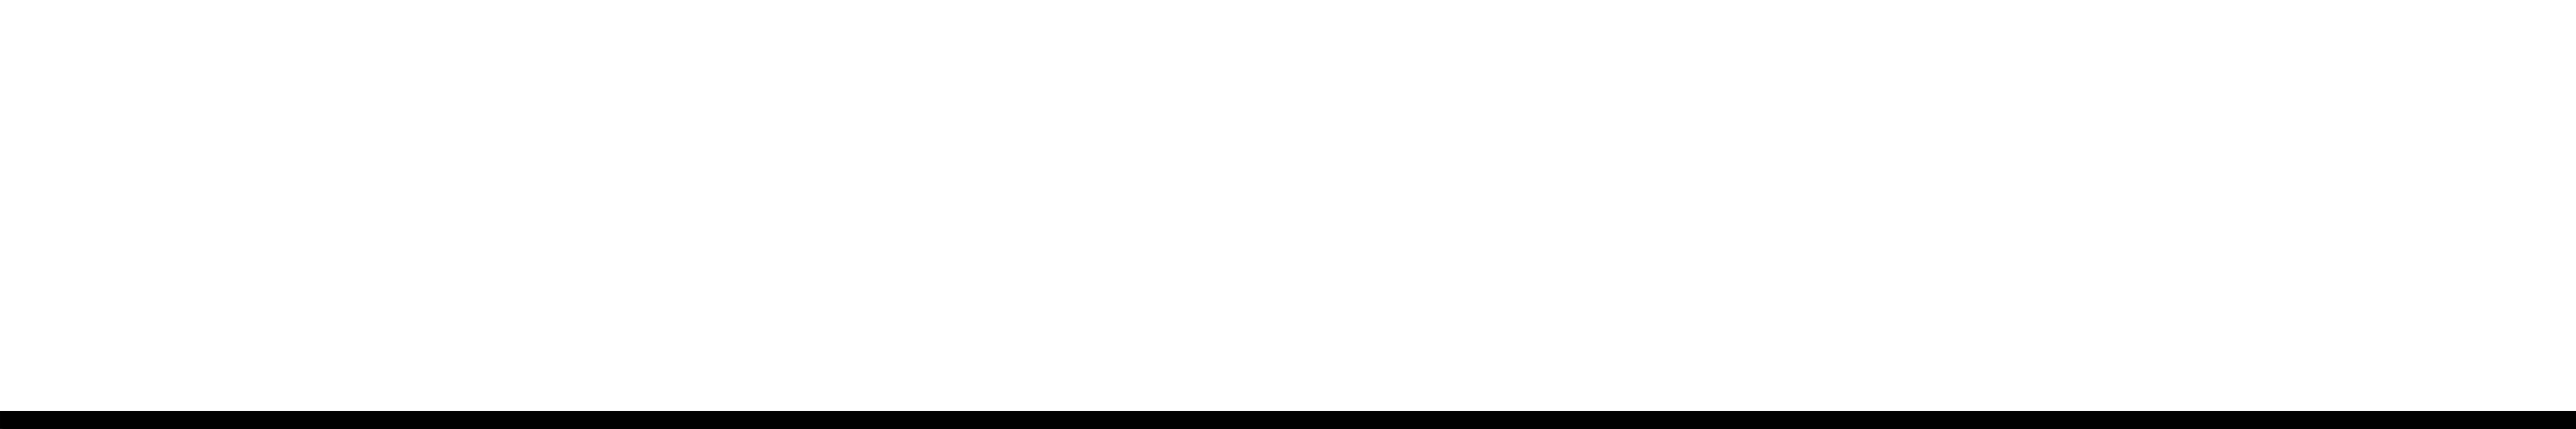
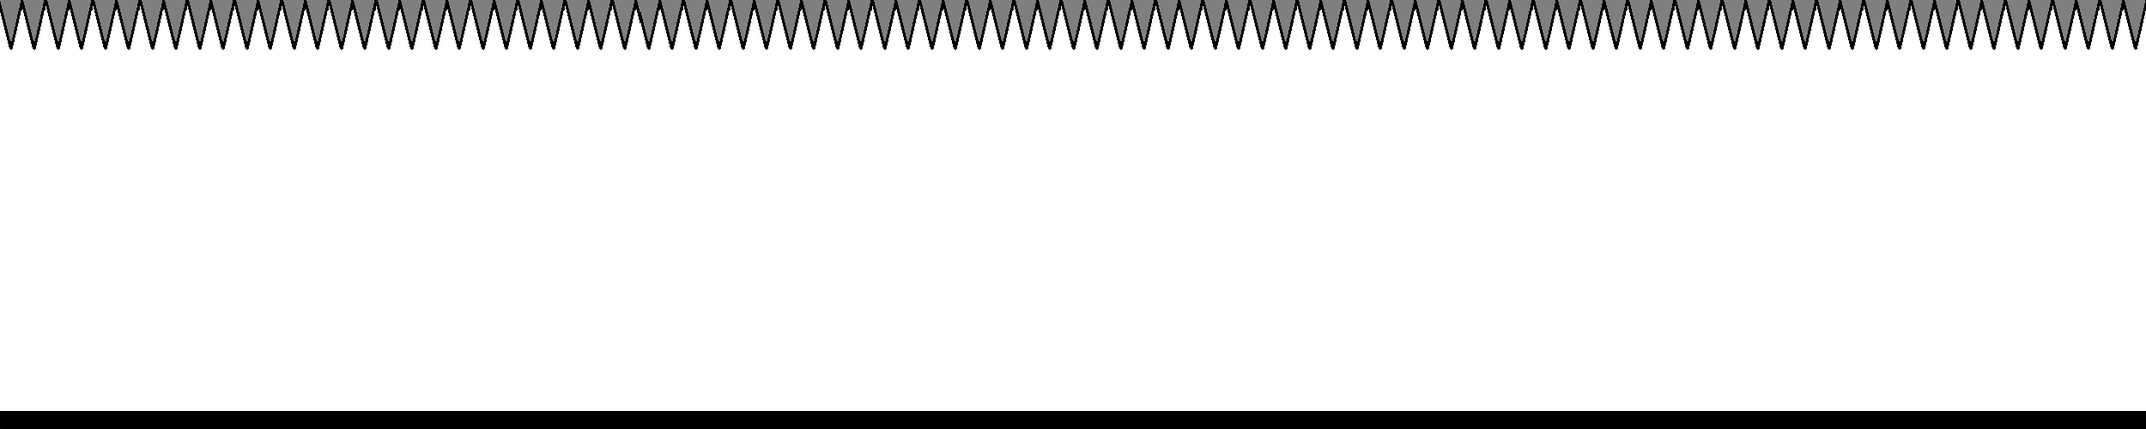
Animacao de perder vida ao cair nos espinhos.

Changed region(s): [[0.0, 0.0, 1.0, 0.12]]

diff --git a/core/src/br/cefetmg/games/Game.java b/core/src/br/cefetmg/games/Game.java
@@ -76,8 +76,9 @@ public class Game extends ApplicationAdapter {
     private int gameState;
     private long deltaTempoVitoria;
     private long tempoVitoria=0;
+    private boolean primeiraFase;
     // DEBUG
-    private boolean debug = true;
+    private boolean debug = false;
     private BitmapFont font;
     private float posicaoFontX;
 
@@ -88,6 +89,7 @@ public class Game extends ApplicationAdapter {
         animacaoMostrarObjetivo = true;
         comecoFase = true;
         gameState = 0;
+        primeiraFase = true;
         if (debug)
             fimAnimacaoInicial = true;
         else
@@ -134,7 +136,7 @@ public class Game extends ApplicationAdapter {
         Gdx.gl.glClear(GL20.GL_COLOR_BUFFER_BIT);
         
         batch.begin();
-
+        
         batch.draw(mapa, 0, 0);
         
         heroi.render(batch, debug);
@@ -236,6 +238,7 @@ public class Game extends ApplicationAdapter {
             limiteCameraDireita = (int) (camera.position.x + camera.viewportWidth / 2f);
 
             verificarDisparoArmadilha();
+            verificarColisaoEspinho();
 
             //Spawn de inimigos
             if (inimigos.size() < 1)
@@ -314,7 +317,7 @@ public class Game extends ApplicationAdapter {
 
     private void inicializarArrayArmadilhas() {
         armadilhas = new ArrayList<BaseArmadilha>();
-        armadilhas.add(new Pedra(1000, 12, true));
+        armadilhas.add(new Pedra(700, 12, true));
         //armadilhas.append(new Pedra(1000,0));
     }
 
@@ -387,7 +390,8 @@ public class Game extends ApplicationAdapter {
         for (int i = 0; i < quantidade;i++){
             batch.draw(caixa, inicio, 0, 100, 100);
             chao.addNovaCaixa(inicio);            
-            batch.draw(espinhos, inicio - 150, 21);            
+            batch.draw(espinhos, inicio - 150, 21);
+            chao.addNovoEspinho(inicio - 150);
             batch.draw(caixa, inicio - 250, 0, 100, 100);
             chao.addNovaCaixa(inicio - 250);
             inicio = inicio - 250;
@@ -407,6 +411,23 @@ public class Game extends ApplicationAdapter {
     private void perderJogo () {
         gameState = 2;
         //entre outras coisas;
+    }
+
+    private void verificarColisaoEspinho() {
+        int deslocamentoCamera = 0;
+        if ((heroi.getY() <= 40) && (Chao.getFloorHeightBelowCharacter(heroi.getHitbox().x, heroi.getHitbox().width) == 40)){
+            heroi.perdeuVida();
+            // Volta o heroi para cima da última caixa
+            while(Chao.getFloorHeightBelowCharacter(heroi.getHitbox().x, heroi.getHitbox().width) != 100){
+                heroi.setX(heroi.getX() + 1);
+                heroi.hitbox.x = heroi.hitbox.x + 1;
+                deslocamentoCamera++;
+            }
+            heroi.setX(heroi.getX() + 75);
+            heroi.setY(heroi.getY() + 100);
+            heroi.hitbox.y = heroi.hitbox.y + 60;
+            camera.position.x = camera.position.x + (deslocamentoCamera + 75);
+        }
     }
         
 }

diff --git a/core/src/br/cefetmg/games/modelo/Chao.java b/core/src/br/cefetmg/games/modelo/Chao.java
@@ -13,9 +13,11 @@ public class Chao {
     
     //fazer um array com comeco, fim e altura de cada parte do terreno
     private static List<Integer> posInicialCaixas;
+    private static List<Integer> posInicialEspinhos;
     
     public Chao(){
         posInicialCaixas = new ArrayList<Integer>();
+        posInicialEspinhos = new ArrayList<Integer>();
     }
     
     public static int getFloorHeight (float posX)
@@ -24,8 +26,12 @@ public class Chao {
             //altura da caixa
             for (Integer posInicialCaixa: posInicialCaixas){
                 if (posX >= posInicialCaixa && (posX <= (posInicialCaixa + 100)))
-                    return 100;                
-            }      
+                    return 100;
+            } 
+            for (Integer posInicialEspinho: posInicialEspinhos){
+                if (posX >= posInicialEspinho && (posX <= (posInicialEspinho + 150)))
+                    return 40;
+            } 
             return 21;
         }
         else 
@@ -45,4 +51,9 @@ public class Chao {
     public void addNovaCaixa(Integer posicaoInicial){
         posInicialCaixas.add(posicaoInicial);
     }
+    
+    public void addNovoEspinho(Integer posicaoInicial){
+        posInicialEspinhos.add(posicaoInicial);
+    }
+    
 }

diff --git a/core/src/br/cefetmg/games/modelo/Heroi.java b/core/src/br/cefetmg/games/modelo/Heroi.java
@@ -281,4 +281,12 @@ public class Heroi {
         };        
         Timer.schedule(perdeuVidaTask, 0, 0.3f, 5);  
     }
+
+    public void setX(int x) {
+        this.x = x;
+    }
+
+    public void setY(int y) {
+        this.y = y;
+    }
 }
